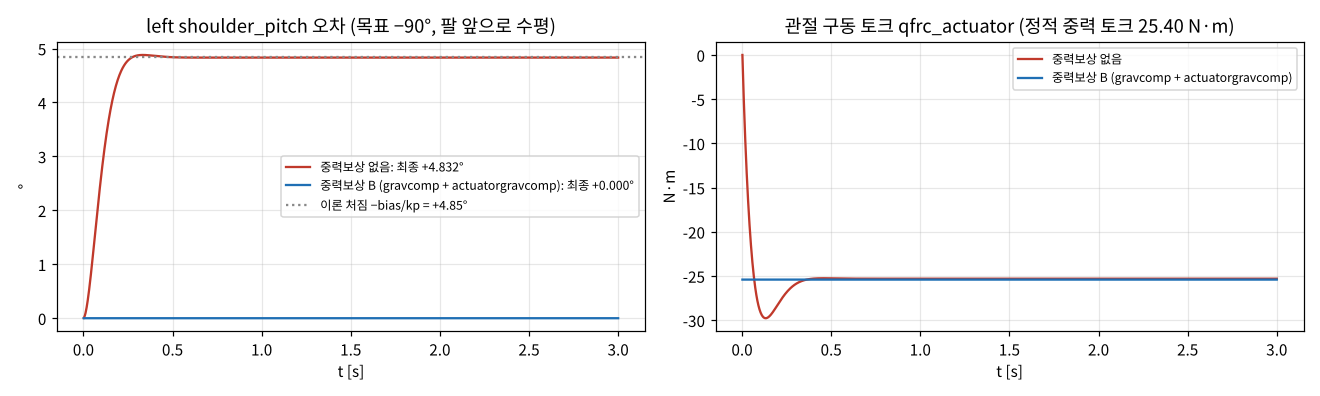
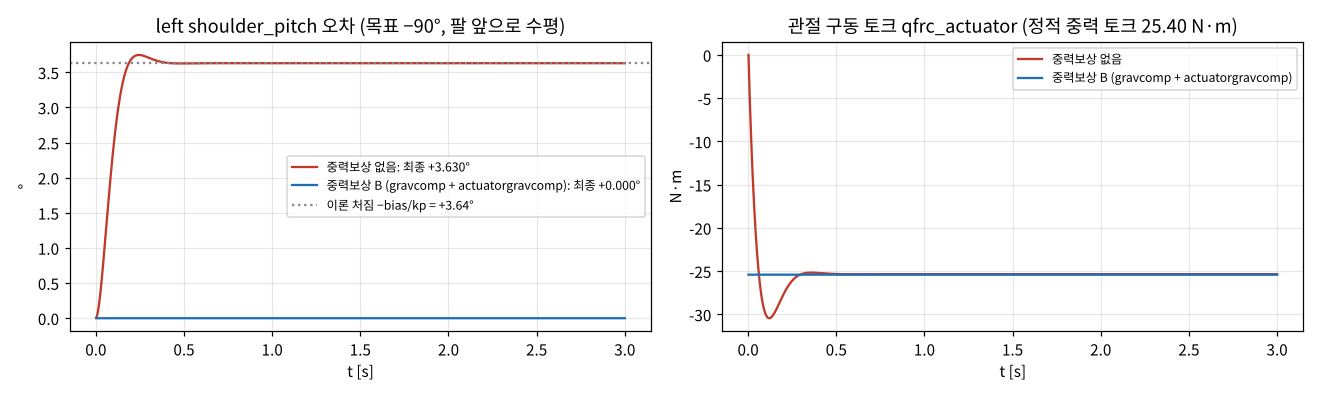
[week07] 게인 통일 합의 반영(함태훈 패치 8fa9750): actuator_params.json joint_gains 고정 kp · kv → b1.xml 액추에이터 8줄, 검증 5종 재실행(② 보상 끔 4.83 → 3.63°, 이론 3.64°), 체크리스트 28/28, import_settings · isaac_arm_gains 출처 fcf74bf · 2.75 % · 0.300 s 갱신
Claude-Session: https://claude.ai/code/session_01Xfhih6j3nSyewKnjPvczzf

diff --git a/b1/models/v1/scripts/export_isaac.py b/b1/models/v1/scripts/export_isaac.py
@@ -46,7 +46,7 @@ L+=[f'| `meshes/visual/*.stl` ({sum(1 for k in MI if k.startswith("visual"))}개
     "| 고정 관절 병합 | `<compiler fusestatic=\"false\">` (base_plate_link · torso · cad_frame · tool0 · gripper_link 보존) | Merge Fixed Joints **끔** | `UrdfConverterCfg(merge_fixed_joints=False)` | 켜면 gripper_link · base_plate_link가 사라져 ee · IMU 기준 프레임을 잃음. Isaac Lab 문서는 대부분 True 권장 → 우리는 프레임 보존 우선. 성능 문제 시 cad_frame · tool0만 병합 |",
     "| 베이스 | planar 1개 (원본) → slide · slide · hinge 3-DOF, velocity 액추에이터 | Isaac용 사본 사용, **Static base(Fix Base) 켬** — 루트 `odom`을 world에 고정하고 3관절로 이동 | `fix_base=True` | Moveable base로 두면 6-DOF 자유 + 3관절이 중복. 옴니휠 미모델링(알려진 한계) |",
     f'| 베이스 구동 | velocity kv vx · vy {a["base_vx"]["kv"]:g}, wz {a["base_wz"]["kv"]:g}, forcerange ±{a["base_vx"]["force"]:g} / ±{a["base_wz"]["force"]:g} | Joint Drive: Target = Velocity, Stiffness 0, Damping = kv | `ImplicitActuatorCfg(joint_names_expr=["base_.*"], stiffness=0.0, damping={{"base_[xy]_joint": {a["base_vx"]["kv"]:g}, "base_yaw_joint": {a["base_wz"]["kv"]:g}}})` | 속도 제어 = D 게인만 |',
-    f'| 팔 구동 | position kp {sp["kp"]:g}, dampratio 1 → kv(컴파일) pitch {a["left_shoulder_pitch"]["kv"]} · roll {a["left_shoulder_roll"]["kv"]} · yaw {a["left_shoulder_yaw"]["kv"]} · elbow {a["left_elbow"]["kv"]} (week05 방식, MuJoCo 빌드 현재값) | Joint Drive: Drive Type **Force**, Target **Position**, Joint Configuration = **Stiffness** 모드로 kp · kv 직접 입력 | **함태훈 week06 고정 게인** `ImplicitActuatorCfg(stiffness, damping)`: pitch {GI["shoulder_pitch"]["stiffness"]} · {GI["shoulder_pitch"]["damping"]} / roll {GI["shoulder_roll"]["stiffness"]} · {GI["shoulder_roll"]["damping"]} / yaw {GI["shoulder_yaw"]["stiffness"]} · {GI["shoulder_yaw"]["damping"]} / elbow {GI["elbow"]["stiffness"]} · {GI["elbow"]["damping"]} (`inputs/isaac_arm_gains.json` ← 함태훈 `sim/w06/docs/actuator_params.md`) | Isaac에는 dampratio가 없어 고정 kv로 튜닝(두 case에서 오버슈트 ≤ 1.5 %, 정착 ≤ 0.29 s). Natural Frequency 모드는 Kp = m·ωn², Kd = 2m·ζ·ωn(m = 관절 등가관성). ⚠ stiffness 단위 = N·m/rad, MuJoCo joint damping 0.5는 PhysX에 별도 항이 없어 damping에 더하는지 확인 |',
+    f'| 팔 구동 | position 고정 kp · kv (week07 `actuator_params.json` joint_gains = Isaac 값과 같음, 함태훈 통일 11/04): kp pitch {a["left_shoulder_pitch"]["kp"]:g} · roll {a["left_shoulder_roll"]["kp"]:g} · yaw {a["left_shoulder_yaw"]["kp"]:g} · elbow {a["left_elbow"]["kp"]:g}, kv pitch {a["left_shoulder_pitch"]["kv"]} · roll {a["left_shoulder_roll"]["kv"]} · yaw {a["left_shoulder_yaw"]["kv"]} · elbow {a["left_elbow"]["kv"]} (MuJoCo 빌드 현재값) | Joint Drive: Drive Type **Force**, Target **Position**, Joint Configuration = **Stiffness** 모드로 kp · kv 직접 입력 | **함태훈 week06 고정 게인** `ImplicitActuatorCfg(stiffness, damping)`: pitch {GI["shoulder_pitch"]["stiffness"]} · {GI["shoulder_pitch"]["damping"]} / roll {GI["shoulder_roll"]["stiffness"]} · {GI["shoulder_roll"]["damping"]} / yaw {GI["shoulder_yaw"]["stiffness"]} · {GI["shoulder_yaw"]["damping"]} / elbow {GI["elbow"]["stiffness"]} · {GI["elbow"]["damping"]} (`inputs/isaac_arm_gains.json` ← 함태훈 `sim/w06/docs/actuator_params.md`, 태그 week06 = fcf74bf) | Isaac에는 dampratio가 없어 고정 kv로 튜닝(두 case · 영점 + 무작위 300자세 최악 오버슈트 2.75 %, 정착 0.300 s — 함태훈 week06 fcf74bf). Natural Frequency 모드는 Kp = m·ωn², Kd = 2m·ζ·ωn(m = 관절 등가관성). ⚠ stiffness 단위 = N·m/rad, MuJoCo joint damping 0.5는 PhysX에 별도 항이 없어 damping에 더하는지 확인 |',
     f'| 토크 한계 | forcerange ±{sp["force"]:g}(어깨) · ±{se["force"]:g}(팔꿈치) = A2 피크 | URDF `<limit effort>` = 같은 값 | `effort_limit_sim` (⚠ 2.x 이전 이름 `effort_limit`) | PDR 판정은 정격(어깨 TQ 118.8 · 팔꿈치 RI85 72.6, A2 10/19). 정격으로 묶어 보려면 effort만 바꿔 재빌드 |',
     f'| 속도 한계 | (MuJoCo는 속도 한계 없음 — 궤적에서 관리) | URDF `<limit velocity>` {vel.get("left_shoulder_pitch_joint")} rad/s | `velocity_limit_sim` | A2 TQ star-serial 무부하 3.50 rad/s 이하로 둠 |',
     f'| 반사 관성 | `armature` 어깨 {sp["armature"]} · 팔꿈치 {se["armature"]} kg·m² (A2 J_rotor × i², 로터만) | URDF에 항목 없음 → 임포트 후 설정 | `ImplicitActuatorCfg(armature=…)` | 기어열 관성 TBD(A2) → 과소 추정 |',
@@ -72,7 +72,7 @@ L+=[f'| `meshes/visual/*.stl` ({sum(1 for k in MI if k.startswith("visual"))}개
     "1. 저장소 clone → `b1/models/v1` 을 영문 경로에 복사, `python b1/models/v1/scripts/build_v1.py` 로 재생성(값 확인)",
     "2. Isaac Sim URDF Importer로 `urdf/b1_v1_isaac.urdf` 임포트 — 2절 옵션(Fix Base 켬 · Merge Fixed Joints 끔 · Convex Hull · Self-collision 켬 · Drive Force/Position/Stiffness)",
     f"3. USD 저장 후 링크 {len(ri.findall('link'))}개(odom · 가상 base_x/base_y 포함) · 관절 {len(ri.findall('joint'))}개(움직이는 관절 {sum(j.get('type')!='fixed' for j in ri.findall('joint'))}) · 총질량 75.10 kg 확인 (MuJoCo `validate_model.md` ① 과 비교)",
-    "4. 검증 ② 재현: 팔 앞으로 수평(pitch −90°) 5 s 유지 — 중력보상 없음이면 처짐 ≈ τg/kp = 4.85°가 나와야 함",
+    "4. 검증 ② 재현: 팔 앞으로 수평(pitch −90°) 5 s 유지 — 중력보상 없음이면 처짐 ≈ τg/kp = 25.40 / 400 = 3.64°가 나와야 함 (week07 통일 게인, MuJoCo 3.63° — week06 kp 300이면 4.85°)",
     "5. 검증 ③ 재현: 같은 자세 정적 토크 pitch 25.40 N·m(0 kg) — `robot.data.applied_torque` 또는 `compute_gravity_compensation` 비교",
     "6. `isaac/b1_v1_cfg.py` 를 Isaac Lab 태스크에 넣고 IK 목표 10개(`results/ik_results.json`)를 관절 목표로 재생 → ee 위치 차 기록",
     "7. 3주차에서 미룬 USD 실습(인스턴서블 메시 · 머티리얼) 진행",

diff --git a/b1/models/v1/scripts/a2_case_compare.py b/b1/models/v1/scripts/a2_case_compare.py
@@ -1,5 +1,5 @@
 # A2 구동기 case 비교 (week06) — armature 0(week05) · cad_ri85(8개 RI85) · a2_doc(어깨 TQ + 팔꿈치 RI85)
-#   같은 kp 300 · dampratio 1(kv는 컴파일 시 armature 포함 관성으로 다시 계산), 중력보상 B 켠 상태에서 관절별 0.2 rad 계단 응답
+#   빌드 게인 그대로(week07: actuator_params.json joint_gains 고정 kp · kv, 함태훈 통일 — week06까지는 kp 300 · dampratio 1), 중력보상 B 켠 상태에서 관절별 0.2 rad 계단 응답
 #   → 오버슈트 · 2 % 정착시간 · 고유진동수 ω_n = √(kp / I_eff), 그리고 팔 앞으로 수평 정지 유지 5 s 오차
 #   결과: results/a2_case_compare.{json,md}
 import os,sys,json,numpy as np,mujoco,xml.etree.ElementTree as ET
@@ -28,7 +28,7 @@ for name,case in CASES.items():
         y=np.array(y); t=np.arange(1,1501)*m.opt.timestep; band=np.abs(y-step)>0.02*step
         ts=float(t[np.where(band)[0][-1]]) if band.any() else 0.0
         res[a]=dict(armature=float(m.dof_armature[da]),kv=round(float(m.actuator_biasprm[ai][2]*-1),3),I_eff_hold=round(float(M[da,da]),4),
-                    wn=round(float(np.sqrt(300/M[da,da])),1),overshoot_pct=round(float(max(0,(y.max()-step)/step*100)),2),settle_s=round(ts,3))
+                    kp=float(m.actuator_gainprm[ai][0]),wn=round(float(np.sqrt(m.actuator_gainprm[ai][0]/M[da,da])),1),overshoot_pct=round(float(max(0,(y.max()-step)/step*100)),2),settle_s=round(ts,3))
     # 앞으로 수평 정지 유지 (양팔 pitch −90°, 5 s)
     mujoco.mj_resetData(m,d)
     for s in ("left","right"):
@@ -37,7 +37,7 @@ for name,case in CASES.items():
     res["hold_forward_err_deg"]=round(float(np.rad2deg(abs(d.qpos[m.jnt_qposadr[m.joint("left_shoulder_pitch_joint").id]]+np.pi/2))),4)
     out[name]=res
 json.dump(out,open(os.path.join(V1,"results","a2_case_compare.json"),"w",encoding="utf-8"),indent=1,ensure_ascii=False)
-L=["# A2 구동기 case 비교 (자동 생성 — a2_case_compare.py)","","kp 300 · dampratio 1(kv 재계산), 중력보상 B on, 영점에서 왼팔 관절별 0.2 rad 계단 3 s. I_eff = 영점 질량행렬 대각(다른 관절 서보 고정 근사)","",
+L=["# A2 구동기 case 비교 (자동 생성 — a2_case_compare.py)","","게인 = 빌드 모델(week07 고정 kp · kv: pitch 400 · 31 / roll 350 · 27.5 / yaw 300 · 15 / elbow 300 · 11 — week06까지는 kp 300 · dampratio 1), 중력보상 B on, 영점에서 왼팔 관절별 0.2 rad 계단 3 s. I_eff = 영점 질량행렬 대각(다른 관절 서보 고정 근사)","",
    "| case | 관절 | armature [kg·m²] | kv | I_eff [kg·m²] | ω_n [rad/s] | 오버슈트 % | 2 % 정착 [s] |","|---|---|---|---|---|---|---|---|"]
 for n,r in out.items():
     for a in ARM: v=r[a]; L.append(f'| {n} | {a} | {v["armature"]} | {v["kv"]} | {v["I_eff_hold"]} | {v["wn"]} | {v["overshoot_pct"]} | {v["settle_s"]} |')

diff --git a/b1/models/v1/scripts/build_v1.py b/b1/models/v1/scripts/build_v1.py
@@ -25,6 +25,7 @@ EFF={a:(A2C["cases"][CASE]["classes"][c]["peak"] if CASE!="none" else A["actuato
 INER=json.load(open(os.path.join(V1,"inputs","link_inertials_v1.json"),encoding="utf-8"))
 SRC_MESH=os.path.join(MODELS,"v0","meshes")
 ARM=["shoulder_pitch","shoulder_roll","shoulder_yaw","elbow"]
+JG={k:v for k,v in P.get("joint_gains",{}).items() if not k.startswith("_")}   # (week07 게인 통일, 함태훈) 관절별 고정 kp · kv
 for d in ("urdf","meshes","mjcf","docs"): os.makedirs(os.path.join(V1,d),exist_ok=True)
 
 # ---- 왼팔 기준 기하 (link-split-v0 §3, 로봇 좌표 m) — 오른팔은 미러 규칙으로 생성
@@ -160,7 +161,9 @@ def build_mjcf():
     for cname,cp in P["classes"].items():
         d=ET.SubElement(dflt,"default",{"class":cname})
         ET.SubElement(d,"joint",{"armature":f'{cp["armature"]}',"damping":f'{cp["damping"]}',"frictionloss":f'{cp["frictionloss"]}'})
-        ET.SubElement(d,"position",{"kp":f'{cp["kp"]}',"dampratio":f'{cp["dampratio"]}',"forcerange":f'{-cp["forcerange"]} {cp["forcerange"]}',"inheritrange":"1"})
+        pos_attr={"kp":f'{cp["kp"]}',"dampratio":f'{cp["dampratio"]}',"forcerange":f'{-cp["forcerange"]} {cp["forcerange"]}',"inheritrange":"1"}
+        if JG: pos_attr.pop("dampratio")   # (week07 게인 통일) 관절별 고정 kp · kv 는 액추에이터에 직접
+        ET.SubElement(d,"position",pos_attr)
     bp=P["base"]; d=ET.SubElement(dflt,"default",{"class":"base"}); ET.SubElement(d,"velocity",{"kv":f'{bp["vx_kv"]}',"forcerange":f'{-bp["lin_forcerange"]} {bp["lin_forcerange"]}'})
     root.insert(list(root).index(root.find("worldbody")),dflt)
     cls_of={a:c for c,cp in P["classes"].items() for a in cp["joints"]}
@@ -189,7 +192,10 @@ def build_mjcf():
     for nm,jn,kv,cr,fr in (("base_vx","base_planar_joint_TX",bp["vx_kv"],bp["v_max"],bp["lin_forcerange"]),("base_vy","base_planar_joint_TY",bp["vy_kv"],bp["v_max"],bp["lin_forcerange"]),("base_wz","base_planar_joint_RZ",bp["wz_kv"],bp["w_max"],bp["yaw_forcerange"])):
         ET.SubElement(act,"velocity",{"class":"base","name":nm,"joint":jn,"kv":f"{kv}","ctrlrange":f"{-cr} {cr}","forcerange":f"{-fr} {fr}"})
     for side in ("left","right"):
-        for a in ARM: ET.SubElement(act,"position",{"class":cls_of[a],"name":f"{side}_{a}","joint":f"{side}_{a}_joint"})
+        for a in ARM:
+            at={"class":cls_of[a],"name":f"{side}_{a}","joint":f"{side}_{a}_joint"}
+            if a in JG: at.update(kp=f'{JG[a]["kp"]}',kv=f'{JG[a]["kv"]}')   # (week07) actuator_params.json joint_gains
+            ET.SubElement(act,"position",at)
     sen=ET.SubElement(root,"sensor")
     for side in ("left","right"):
         for a in ARM:

diff --git a/b1/models/v1/docs/import_settings.md b/b1/models/v1/docs/import_settings.md
@@ -20,7 +20,7 @@
 | 고정 관절 병합 | `<compiler fusestatic="false">` (base_plate_link · torso · cad_frame · tool0 · gripper_link 보존) | Merge Fixed Joints **끔** | `UrdfConverterCfg(merge_fixed_joints=False)` | 켜면 gripper_link · base_plate_link가 사라져 ee · IMU 기준 프레임을 잃음. Isaac Lab 문서는 대부분 True 권장 → 우리는 프레임 보존 우선. 성능 문제 시 cad_frame · tool0만 병합 |
 | 베이스 | planar 1개 (원본) → slide · slide · hinge 3-DOF, velocity 액추에이터 | Isaac용 사본 사용, **Static base(Fix Base) 켬** — 루트 `odom`을 world에 고정하고 3관절로 이동 | `fix_base=True` | Moveable base로 두면 6-DOF 자유 + 3관절이 중복. 옴니휠 미모델링(알려진 한계) |
 | 베이스 구동 | velocity kv vx · vy 200, wz 50, forcerange ±2000 / ±500 | Joint Drive: Target = Velocity, Stiffness 0, Damping = kv | `ImplicitActuatorCfg(joint_names_expr=["base_.*"], stiffness=0.0, damping={"base_[xy]_joint": 200, "base_yaw_joint": 50})` | 속도 제어 = D 게인만 |
-| 팔 구동 | position kp 300, dampratio 1 → kv(컴파일) pitch 29.791 · roll 32.448 · yaw 16.761 · elbow 12.823 (week05 방식, MuJoCo 빌드 현재값) | Joint Drive: Drive Type **Force**, Target **Position**, Joint Configuration = **Stiffness** 모드로 kp · kv 직접 입력 | **함태훈 week06 고정 게인** `ImplicitActuatorCfg(stiffness, damping)`: pitch 400 · 31.0 / roll 350 · 27.5 / yaw 300 · 15.0 / elbow 300 · 11.0 (`inputs/isaac_arm_gains.json` ← 함태훈 `sim/w06/docs/actuator_params.md`) | Isaac에는 dampratio가 없어 고정 kv로 튜닝(두 case에서 오버슈트 ≤ 1.5 %, 정착 ≤ 0.29 s). Natural Frequency 모드는 Kp = m·ωn², Kd = 2m·ζ·ωn(m = 관절 등가관성). ⚠ stiffness 단위 = N·m/rad, MuJoCo joint damping 0.5는 PhysX에 별도 항이 없어 damping에 더하는지 확인 |
+| 팔 구동 | position 고정 kp · kv (week07 `actuator_params.json` joint_gains = Isaac 값과 같음, 함태훈 통일 11/04): kp pitch 400 · roll 350 · yaw 300 · elbow 300, kv pitch 31.0 · roll 27.5 · yaw 15.0 · elbow 11.0 (MuJoCo 빌드 현재값) | Joint Drive: Drive Type **Force**, Target **Position**, Joint Configuration = **Stiffness** 모드로 kp · kv 직접 입력 | **함태훈 week06 고정 게인** `ImplicitActuatorCfg(stiffness, damping)`: pitch 400 · 31.0 / roll 350 · 27.5 / yaw 300 · 15.0 / elbow 300 · 11.0 (`inputs/isaac_arm_gains.json` ← 함태훈 `sim/w06/docs/actuator_params.md`, 태그 week06 = fcf74bf) | Isaac에는 dampratio가 없어 고정 kv로 튜닝(두 case · 영점 + 무작위 300자세 최악 오버슈트 2.75 %, 정착 0.300 s — 함태훈 week06 fcf74bf). Natural Frequency 모드는 Kp = m·ωn², Kd = 2m·ζ·ωn(m = 관절 등가관성). ⚠ stiffness 단위 = N·m/rad, MuJoCo joint damping 0.5는 PhysX에 별도 항이 없어 damping에 더하는지 확인 |
 | 토크 한계 | forcerange ±381.7(어깨) · ±181.5(팔꿈치) = A2 피크 | URDF `<limit effort>` = 같은 값 | `effort_limit_sim` (⚠ 2.x 이전 이름 `effort_limit`) | PDR 판정은 정격(어깨 TQ 118.8 · 팔꿈치 RI85 72.6, A2 10/19). 정격으로 묶어 보려면 effort만 바꿔 재빌드 |
 | 속도 한계 | (MuJoCo는 속도 한계 없음 — 궤적에서 관리) | URDF `<limit velocity>` 3.0 rad/s | `velocity_limit_sim` | A2 TQ star-serial 무부하 3.50 rad/s 이하로 둠 |
 | 반사 관성 | `armature` 어깨 0.219 · 팔꿈치 0.098 kg·m² (A2 J_rotor × i², 로터만) | URDF에 항목 없음 → 임포트 후 설정 | `ImplicitActuatorCfg(armature=…)` | 기어열 관성 TBD(A2) → 과소 추정 |
@@ -51,7 +51,7 @@
 1. 저장소 clone → `b1/models/v1` 을 영문 경로에 복사, `python b1/models/v1/scripts/build_v1.py` 로 재생성(값 확인)
 2. Isaac Sim URDF Importer로 `urdf/b1_v1_isaac.urdf` 임포트 — 2절 옵션(Fix Base 켬 · Merge Fixed Joints 끔 · Convex Hull · Self-collision 켬 · Drive Force/Position/Stiffness)
 3. USD 저장 후 링크 19개(odom · 가상 base_x/base_y 포함) · 관절 18개(움직이는 관절 11) · 총질량 75.10 kg 확인 (MuJoCo `validate_model.md` ① 과 비교)
-4. 검증 ② 재현: 팔 앞으로 수평(pitch −90°) 5 s 유지 — 중력보상 없음이면 처짐 ≈ τg/kp = 4.85°가 나와야 함
+4. 검증 ② 재현: 팔 앞으로 수평(pitch −90°) 5 s 유지 — 중력보상 없음이면 처짐 ≈ τg/kp = 25.40 / 400 = 3.64°가 나와야 함 (week07 통일 게인, MuJoCo 3.63° — week06 kp 300이면 4.85°)
 5. 검증 ③ 재현: 같은 자세 정적 토크 pitch 25.40 N·m(0 kg) — `robot.data.applied_torque` 또는 `compute_gravity_compensation` 비교
 6. `isaac/b1_v1_cfg.py` 를 Isaac Lab 태스크에 넣고 IK 목표 10개(`results/ik_results.json`)를 관절 목표로 재생 → ee 위치 차 기록
 7. 3주차에서 미룬 USD 실습(인스턴서블 메시 · 머티리얼) 진행

diff --git a/b1/models/v1/results/validate_model.md b/b1/models/v1/results/validate_model.md
@@ -5,7 +5,7 @@
 | 검증 | 통과 기준 | 결과 | 판정 |
 |---|---|---|---|
 | ① 질량 합계 | 전체 · 링크별 ±5 % (기준 = 공용 가정값 + 함태훈 CAD 질량, BOM 대기) | 모델 75.097 kg vs 기준 75.094 kg (+0.004 %), 링크별 최대 0.000 % | **통과** |
-| ② 정지 유지 | 5 s, 관절 오차 ≤ 0.5°, 발산 · 떨림 없음 | 영점 0.0454°. 앞으로 수평: 보상 없음 4.8324° → 보상 A 0.0° · B 0.0°. roll 상한: A 4.3339°(ctrlrange 클리핑) → **B 0.0°** | **통과** (중력보상 B 필요) |
+| ② 정지 유지 | 5 s, 관절 오차 ≤ 0.5°, 발산 · 떨림 없음 | 영점 0.0393°. 앞으로 수평: 보상 없음 3.6303° → 보상 A 0.0° · B 0.0°. roll 상한: A 3.72°(ctrlrange 클리핑) → **B 0.0°** | **통과** (중력보상 B 필요) |
 | ③ 중력 토크 vs 구동기 | 관절별 최악 |τg| × 1.2 ≤ 정격 (판정 기준 52 N·m = 그리퍼 가정 포함 최악 × 1.2, 팀장 10/19) | 3 kg: pitch 42.92 · roll 39.77 · yaw 11.85 · elbow 11.78 N·m | **통과** (PDR 기준) · A2 정격(어깨 TQ 118.8 / RI85 72.6, 10/19) 대비 여유 pitch 177 % (어깨도 RI85면 69 %) |
 | ④ 관절 범위 sweep | 범위 안 자기 충돌 0건 | 3770자세(8관절 × 0.5°), 접촉 0건 | **통과** |
 | ⑤ 좌우 대칭 | y 부호만 다르고 x · z 차 ≤ 1 mm | 504자세 최대 |Δx| 0.00e+00 · |Δz| 0.00e+00 · |y_L + y_R| 0.00e+00 mm | **통과** |
@@ -31,18 +31,18 @@
 
 - 더미 프레임(odom · cad_frame · tool0 등) 0.0031 kg 포함. 오른팔 기준 = 왼팔 거울(공칭). 함태훈 CAD 오른팔 14.231 kg과 차 +0.061 kg (0.4 %)
 
-## ② 정지 유지 (kp 300, dampratio 1)
+## ② 정지 유지 (게인 = 빌드 모델 그대로: kp/kv shoulder_pitch 400/31 · shoulder_roll 350/27.5 · shoulder_yaw 300/15 · elbow 300/11)
 
 | 자세 | 보상 | 최대 오차 ° | 5 s 후 오차 ° | 마지막 1 s 떨림 ° | ctrlrange 클리핑 | 접촉 |
 |---|---|---|---|---|---|---|
-| zero | 없음 | 0.0454 | 0.0454 | 0.0 | - | 0 |
+| zero | 없음 | 0.0407 | 0.0393 | 0.0 | - | 0 |
 | zero | A 목표 오프셋 | 0.0 | 0.0 | 0.0 | - | 0 |
 | zero | B gravcomp | 0.0 | 0.0 | 0.0 | - | 0 |
-| forward | 없음 | 4.8807 | 4.8324 | 0.0 | - | 0 |
+| forward | 없음 | 3.7472 | 3.6303 | 0.0 | - | 0 |
 | forward | A 목표 오프셋 | 0.0 | 0.0 | 0.0 | - | 0 |
 | forward | B gravcomp | 0.0 | 0.0 | 0.0 | - | 0 |
-| roll_upper | 없음 | 4.3342 | 4.3339 | 0.0 | - | 0 |
-| roll_upper | A 목표 오프셋 | 4.3342 | 4.3339 | 0.0 | 예 | 0 |
+| roll_upper | 없음 | 3.8236 | 3.72 | 0.0 | - | 0 |
+| roll_upper | A 목표 오프셋 | 3.8236 | 3.72 | 0.0 | 예 | 0 |
 | roll_upper | B gravcomp | 0.0 | 0.0 | 0.0 | - | 0 |
 
 - A = 위치 목표에 τg / kp 오프셋(qfrc_bias, qvel ≈ 0). 목표가 ctrlrange(= 관절 범위, inheritrange)를 넘으면 잘려서 한계 근처 자세에서 처짐이 남음 (함태훈 발견 10/17: roll 상한 4.33°)

diff --git a/b1/models/v1/results/a2_case_compare.md b/b1/models/v1/results/a2_case_compare.md
@@ -1,21 +1,21 @@
 # A2 구동기 case 비교 (자동 생성 — a2_case_compare.py)
 
-kp 300 · dampratio 1(kv 재계산), 중력보상 B on, 영점에서 왼팔 관절별 0.2 rad 계단 3 s. I_eff = 영점 질량행렬 대각(다른 관절 서보 고정 근사)
+게인 = 빌드 모델(week07 고정 kp · kv: pitch 400 · 31 / roll 350 · 27.5 / yaw 300 · 15 / elbow 300 · 11 — week06까지는 kp 300 · dampratio 1), 중력보상 B on, 영점에서 왼팔 관절별 0.2 rad 계단 3 s. I_eff = 영점 질량행렬 대각(다른 관절 서보 고정 근사)
 
 | case | 관절 | armature [kg·m²] | kv | I_eff [kg·m²] | ω_n [rad/s] | 오버슈트 % | 2 % 정착 [s] |
 |---|---|---|---|---|---|---|---|
-| none (week05, armature 0) | shoulder_pitch | 0.0 | 20.531 | 0.8466 | 18.8 | 3.68 | 0.316 |
-| none (week05, armature 0) | shoulder_roll | 0.0 | 28.058 | 0.737 | 20.2 | 0.05 | 0.272 |
-| none (week05, armature 0) | shoulder_yaw | 0.0 | 4.251 | 0.0153 | 140.0 | 0.01 | 0.044 |
-| none (week05, armature 0) | elbow | 0.0 | 6.244 | 0.0605 | 70.4 | 1.61 | 0.062 |
-| a2_doc | shoulder_pitch | 0.219 | 29.791 | 1.0656 | 16.8 | 0.6 | 0.266 |
-| a2_doc | shoulder_roll | 0.219 | 32.448 | 0.956 | 17.7 | 0.04 | 0.316 |
-| a2_doc | shoulder_yaw | 0.219 | 16.761 | 0.2343 | 35.8 | 0.0 | 0.164 |
-| a2_doc | elbow | 0.098 | 12.823 | 0.1585 | 43.5 | 0.28 | 0.122 |
-| cad_ri85 | shoulder_pitch | 0.098 | 27.235 | 0.9446 | 17.8 | 0.77 | 0.24 |
-| cad_ri85 | shoulder_roll | 0.098 | 30.109 | 0.835 | 19.0 | 0.05 | 0.294 |
-| cad_ri85 | shoulder_yaw | 0.098 | 11.649 | 0.1133 | 51.5 | 0.0 | 0.116 |
-| cad_ri85 | elbow | 0.098 | 12.678 | 0.1585 | 43.5 | 0.36 | 0.118 |
+| none (week05, armature 0) | shoulder_pitch | 0.0 | 31.0 | 0.8466 | 21.7 | 0.5 | 0.214 |
+| none (week05, armature 0) | shoulder_roll | 0.0 | 27.5 | 0.737 | 21.8 | 0.23 | 0.208 |
+| none (week05, armature 0) | shoulder_yaw | 0.0 | 15.0 | 0.0153 | 140.0 | 0.0 | 0.194 |
+| none (week05, armature 0) | elbow | 0.0 | 11.0 | 0.0605 | 70.4 | 0.0 | 0.124 |
+| a2_doc | shoulder_pitch | 0.219 | 31.0 | 1.0656 | 19.4 | 1.56 | 0.192 |
+| a2_doc | shoulder_roll | 0.219 | 27.5 | 0.956 | 19.1 | 1.92 | 0.184 |
+| a2_doc | shoulder_yaw | 0.219 | 15.0 | 0.2343 | 35.8 | 0.18 | 0.132 |
+| a2_doc | elbow | 0.098 | 11.0 | 0.1585 | 43.5 | 1.35 | 0.094 |
+| cad_ri85 | shoulder_pitch | 0.098 | 31.0 | 0.9446 | 20.6 | 0.85 | 0.202 |
+| cad_ri85 | shoulder_roll | 0.098 | 27.5 | 0.835 | 20.5 | 0.81 | 0.194 |
+| cad_ri85 | shoulder_yaw | 0.098 | 15.0 | 0.1133 | 51.5 | 0.0 | 0.172 |
+| cad_ri85 | elbow | 0.098 | 11.0 | 0.1585 | 43.5 | 1.43 | 0.094 |
 
 - none (week05, armature 0): 팔 앞으로 수평 5 s 유지 오차 0.0°
 - a2_doc: 팔 앞으로 수평 5 s 유지 오차 0.0°

diff --git a/b1/models/v1/results/checklist_v1.md b/b1/models/v1/results/checklist_v1.md
@@ -29,6 +29,6 @@
 | E8 | 액추에이터 11개 명령 → 관절 응답 (뷰어 슬라이더 점검 자동판) | OK | 11/11 — 범위 40 % 명령, position 오차 ≤ 2 %, 베이스 velocity 1.5 s 후 98 % |
 | F3 | 수평 자세 중력토크 손계산 = MuJoCo | OK | 손계산 Σ r×mg = 25.4035 N·m, MuJoCo 25.4035 N·m (그리퍼 0.5 kg 포함, v0 22.7301) |
 | F2 | 총질량 ≤ 80 kg (기획서) · 검증 ① | OK | 75.097 kg, 기준 대비 +0.004 % |
-| E7 | position 서보 처짐 ≈ τg/kp · 중력보상으로 상쇄 | OK | 보상 없음 4.8324° vs 이론 4.852° → 보상(목표 + τg/kp) 0.0° |
+| E7 | position 서보 처짐 ≈ τg/kp · 중력보상으로 상쇄 | OK | 보상 없음 3.6303° vs 이론 3.639° → 보상(목표 + τg/kp) 0.0° |
 | M1 | 좌우 미러 = 규칙표 · 검증 ⑤ | OK | 504자세 |Δx|·|Δz|·|y_L+y_R| ≤ 0.0e+00 mm — docs/mirror_rules.md |
 | F5 | 캡처: 4자세 · collision · 중력보상 | OK | img/v1_poses.png · v1_collision.png · v1_gravcomp.png + 노트북 뷰어 재현 img/repro/20261016_laptop_v1_*.png (Control 슬라이더 · 양팔 대칭 · base_vx) |
